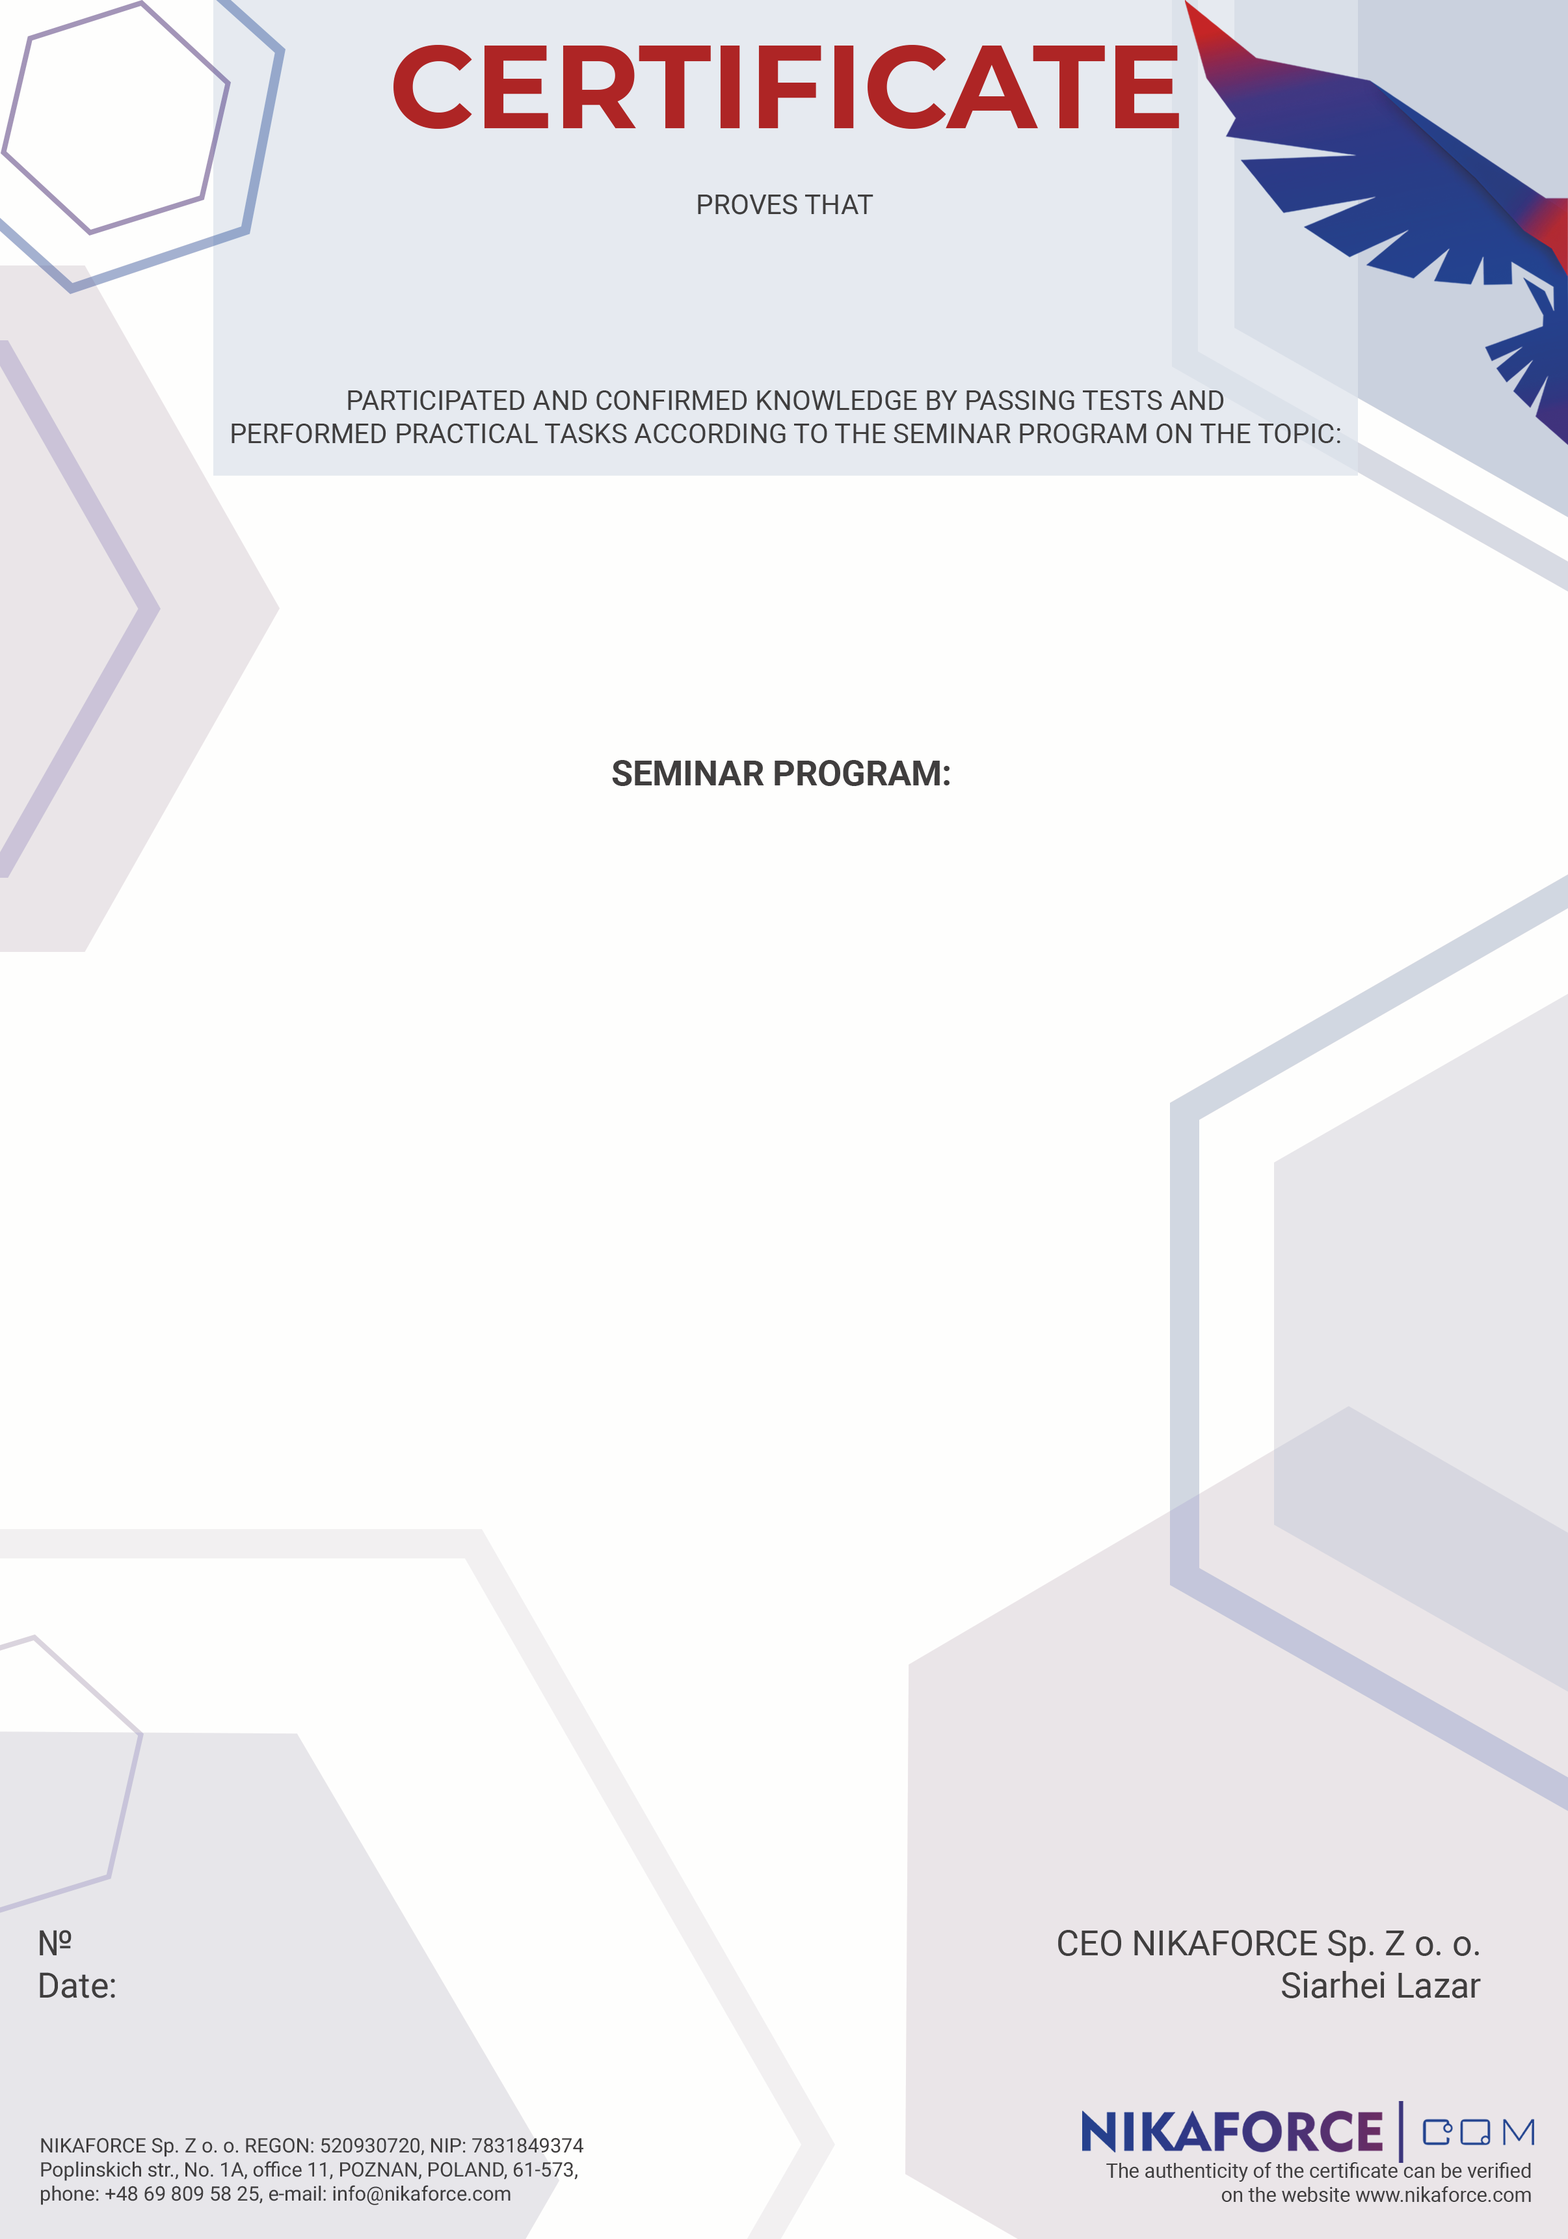
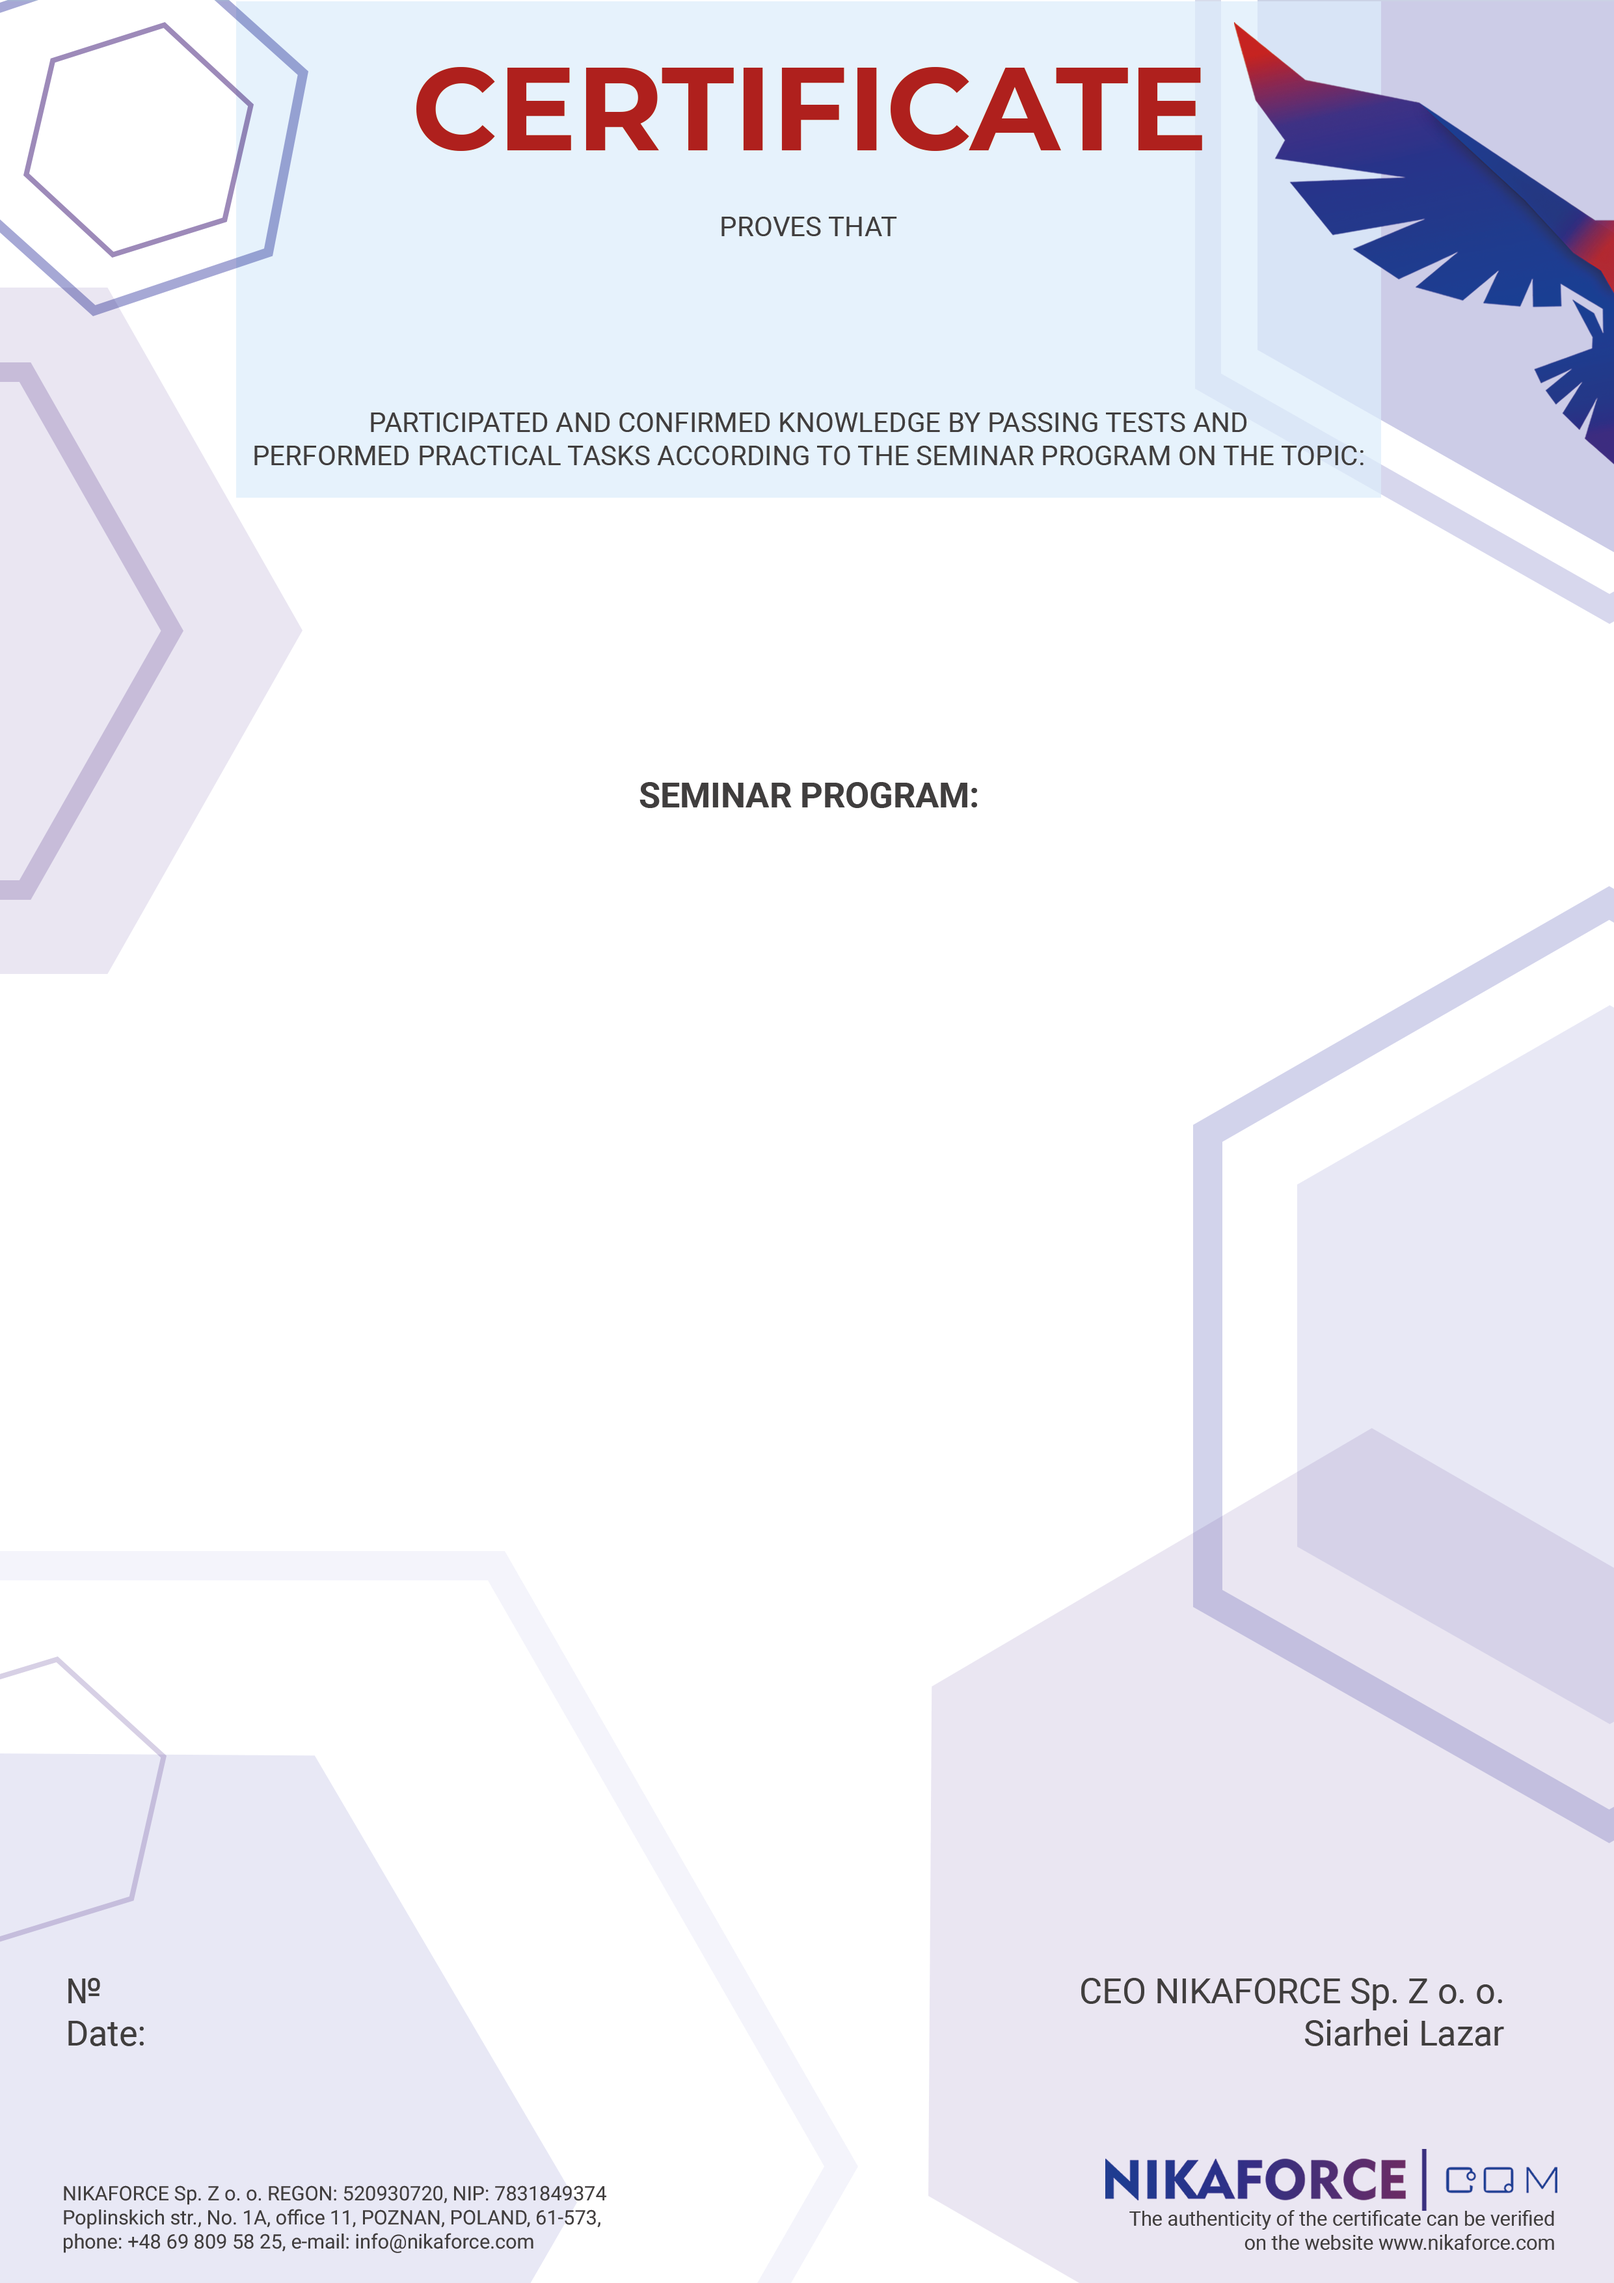
fix: equalize paragraph spacing in generator and unify admin UI columns

diff --git a/core/utils.py b/core/utils.py
@@ -21,7 +21,7 @@ def pdf_to_jpg(pdf_file_field):
         pdf_data = pdf_file_field.read()
         doc = fitz.open(stream=pdf_data, filetype="pdf")
         page = doc.load_page(0)
-        pix = page.get_pixmap(matrix=fitz.Matrix(2, 2))
+        pix = page.get_pixmap(matrix=fitz.Matrix(1.5, 1.5))
         img_data = pix.tobytes("jpg")
         return ContentFile(img_data, name=f"preview_manual_{uuid.uuid4().hex[:8]}.jpg")
     except Exception as e:
@@ -31,23 +31,21 @@ def pdf_to_jpg(pdf_file_field):
 
 def wrap_text(text, font, max_width, draw):
     lines = []
-    paragraphs = str(text).replace('\r\n', '\n').split('\n')
-    for paragraph in paragraphs:
-        words = paragraph.split(' ')
-        current_line = []
-        for word in words:
-            test_line = ' '.join(current_line + [word])
-            bbox = draw.textbbox((0, 0), test_line, font=font)
-            if (bbox[2] - bbox[0]) <= max_width:
-                current_line.append(word)
+    words = text.split(' ')
+    current_line = []
+    for word in words:
+        test_line = ' '.join(current_line + [word])
+        bbox = draw.textbbox((0, 0), test_line, font=font)
+        if (bbox[2] - bbox[0]) <= max_width:
+            current_line.append(word)
+        else:
+            if current_line:
+                lines.append(' '.join(current_line))
+                current_line = [word]
             else:
-                if current_line:
-                    lines.append(' '.join(current_line))
-                    current_line = [word]
-                else:
-                    lines.append(word)
-        if current_line:
-            lines.append(' '.join(current_line))
+                lines.append(word)
+    if current_line:
+        lines.append(' '.join(current_line))
     return lines
 
 
@@ -56,6 +54,7 @@ def generate_certificates(certificate):
     company = certificate.seminar.company
 
     font_times = os.path.join(ASSETS_DIR, 'fonts', 'times.ttf')
+    font_times_bold = os.path.join(ASSETS_DIR, 'fonts', 'timesbd.ttf')
     font_montserrat = os.path.join(ASSETS_DIR, 'fonts', 'Montserrat-Bold.ttf')
     font_roboto = os.path.join(ASSETS_DIR, 'fonts', 'Roboto.ttf')
 
@@ -65,6 +64,7 @@ def generate_certificates(certificate):
 
         style = {
             'font_main': font_times,
+            'font_title': font_times_bold,
             'font_sec': font_times,
             'color_title': (180, 0, 0),
             'color_text': (0, 0, 0),
@@ -72,14 +72,14 @@ def generate_certificates(certificate):
             'name': {
                 'type': 'autofit',
                 'align': 'center',
-                'y_start': 455, 'y_end': 665,
-                'max_width': 2200, 'max_size': 110, 'min_size': 50
+                'y_start': 465, 'y_end': 655,
+                'max_width': 1600, 'max_size': 110, 'min_size': 50
             },
             'title': {
                 'type': 'autofit',
                 'align': 'center',
                 'y_start': 820, 'y_end': 1185,
-                'max_width': 2200, 'max_size': 120, 'min_size': 40
+                'max_width': 2200, 'max_size': 90, 'min_size': 40
             },
             'program': {
                 'type': 'autofit',
@@ -87,8 +87,8 @@ def generate_certificates(certificate):
                 'y_start': 1370, 'y_end': 2685,
                 'max_width': 2200, 'max_size': 60, 'min_size': 25
             },
-            'number': {'type': 'simple', 'y': 2980, 'x': 120, 'size': 50},
-            'date': {'type': 'simple', 'y': 3100, 'x': 60, 'size': 50},
+            'number': {'type': 'simple', 'y': 2975, 'x': 120, 'size': 50},
+            'date': {'type': 'simple', 'y': 3095, 'x': 60, 'size': 50},
         }
     else:
         tpl_clean = 'template_nika_clean.png'
@@ -96,13 +96,14 @@ def generate_certificates(certificate):
 
         style = {
             'font_main': font_montserrat,
+            'font_title': font_montserrat,
             'font_sec': font_roboto,
             'color_title': (0, 64, 153),
             'color_text': (50, 50, 50),
 
             'name': {
                 'type': 'autofit_one_line',
-                'y_center': 460,
+                'y_center': 480,
                 'max_width': 1700,
                 'max_size': 130,
                 'min_size': 40
@@ -110,7 +111,7 @@ def generate_certificates(certificate):
             'title': {
                 'type': 'autofit',
                 'align': 'center',
-                'y_start': 750, 'y_end': 1135,
+                'y_start': 770, 'y_end': 1155,
                 'max_width': 2300, 'max_size': 90, 'min_size': 40
             },
             'program': {
@@ -119,8 +120,8 @@ def generate_certificates(certificate):
                 'y_start': 1300, 'y_end': 2840,
                 'max_width': 2300, 'max_size': 60, 'min_size': 25
             },
-            'number': {'type': 'simple', 'y': 2955, 'x': 120, 'size': 50},
-            'date': {'type': 'simple', 'y': 3025, 'x': 200, 'size': 50},
+            'number': {'type': 'simple', 'y': 3030, 'x': 160, 'size': 50},
+            'date': {'type': 'simple', 'y': 3097, 'x': 230, 'size': 50},
         }
 
     def process_image(template_name):
@@ -135,64 +136,80 @@ def generate_certificates(certificate):
             if not text: return
             cfg = style[key]
 
+            # 1. ONE LINE
             if cfg['type'] == 'autofit_one_line':
                 current_size = cfg['max_size']
                 min_size = cfg['min_size']
                 max_w = cfg['max_width']
                 final_font = None
-
                 while current_size >= min_size:
                     font = get_font(font_path, current_size)
                     bbox = draw.textbbox((0, 0), text, font=font)
-                    w = bbox[2] - bbox[0]
-                    if w <= max_w:
+                    if (bbox[2] - bbox[0]) <= max_w:
                         final_font = font
                         break
                     current_size -= 2
-
-                if not final_font:
-                    final_font = get_font(font_path, min_size)
+                if not final_font: final_font = get_font(font_path, min_size)
 
                 bbox = draw.textbbox((0, 0), text, font=final_font)
                 text_w = bbox[2] - bbox[0]
                 text_h = bbox[3] - bbox[1]
-
                 x = (img_w - text_w) / 2
                 y = cfg['y_center'] - (text_h / 2)
-
                 draw.text((x, y), text, font=final_font, fill=color)
 
             elif cfg['type'] == 'autofit':
                 current_size = cfg['max_size']
                 min_size = cfg['min_size']
                 max_h = cfg['y_end'] - cfg['y_start']
+
+                raw_paragraphs = str(text).replace('\r\n', '\n').split('\n')
+
+                line_spacing = 13
+                paragraph_spacing = 13
+
                 final_font = None
-                final_lines = []
+                final_structure = []
                 final_h = 0
 
                 while current_size >= min_size:
                     font = get_font(font_path, current_size)
-                    lines = wrap_text(text, font, cfg['max_width'], draw)
+                    temp_structure = []
                     total_h = 0
-                    for line in lines:
-                        bbox = draw.textbbox((0, 0), line, font=font)
-                        total_h += (bbox[3] - bbox[1]) + 15
-                    total_h -= 15
+
+                    for para in raw_paragraphs:
+                        if not para.strip(): continue
+                        lines = wrap_text(para, font, cfg['max_width'], draw)
+                        temp_structure.append(lines)
+
+                        for line in lines:
+                            bbox = draw.textbbox((0, 0), line, font=font)
+                            total_h += (bbox[3] - bbox[1]) + line_spacing
+
+                        total_h += paragraph_spacing
+
+                    if total_h > 0: total_h -= paragraph_spacing
 
                     if total_h <= max_h:
                         final_font = font
-                        final_lines = lines
+                        final_structure = temp_structure
                         final_h = total_h
                         break
                     current_size -= 2
 
                 if not final_font:
                     final_font = get_font(font_path, min_size)
-                    final_lines = wrap_text(text, final_font, cfg['max_width'], draw)
+                    final_structure = []
                     final_h = 0
-                    for line in final_lines:
-                        bbox = draw.textbbox((0, 0), line, final_font)
-                        final_h += (bbox[3] - bbox[1]) + 15
+                    for para in raw_paragraphs:
+                        if not para.strip(): continue
+                        lines = wrap_text(para, final_font, cfg['max_width'], draw)
+                        final_structure.append(lines)
+                        for line in lines:
+                            bbox = draw.textbbox((0, 0), line, final_font)
+                            final_h += (bbox[3] - bbox[1]) + line_spacing
+                        final_h += paragraph_spacing
+                    if final_h > 0: final_h -= paragraph_spacing
 
                 if key == 'program':
                     start_y = cfg['y_start']
@@ -200,38 +217,41 @@ def generate_certificates(certificate):
                     start_y = cfg['y_start'] + (max_h - final_h) / 2
 
                 max_line_w = 0
-                for line in final_lines:
-                    bbox = draw.textbbox((0, 0), line, font=final_font)
-                    w = bbox[2] - bbox[0]
-                    if w > max_line_w: max_line_w = w
+                for group in final_structure:
+                    for line in group:
+                        bbox = draw.textbbox((0, 0), line, font=final_font)
+                        w = bbox[2] - bbox[0]
+                        if w > max_line_w: max_line_w = w
 
                 block_start_x = (img_w - max_line_w) / 2
 
                 curr_y = start_y
-                for line in final_lines:
-                    bbox = draw.textbbox((0, 0), line, font=final_font)
-                    line_w = bbox[2] - bbox[0]
+                for group in final_structure:
+                    for line in group:
+                        bbox = draw.textbbox((0, 0), line, font=final_font)
+                        line_w = bbox[2] - bbox[0]
 
-                    if cfg['align'] == 'center':
-                        draw_x = (img_w - line_w) / 2
-                    else:
-                        draw_x = block_start_x
+                        if cfg['align'] == 'center':
+                            draw_x = (img_w - line_w) / 2
+                        else:
+                            draw_x = block_start_x
 
-                    draw.text((draw_x, curr_y), line, font=final_font, fill=color)
-                    curr_y += (bbox[3] - bbox[1]) + 15
+                        draw.text((draw_x, curr_y), line, font=final_font, fill=color)
+                        curr_y += (bbox[3] - bbox[1]) + line_spacing
+
+                    curr_y += paragraph_spacing
 
             elif cfg['type'] == 'simple':
                 font = get_font(font_path, cfg['size'])
                 draw.text((cfg['x'], cfg['y']), str(text), font=font, fill=color)
 
         draw_field(certificate.full_name, 'name', style['font_main'], style['color_text'])
-        draw_field(certificate.seminar.title, 'title', style['font_main'], style['color_title'])
+        draw_field(certificate.seminar.title, 'title', style['font_title'], style['color_title'])
         draw_field(certificate.seminar.program, 'program', style['font_sec'], style['color_text'])
-
         clean_num = certificate.certificate_number.replace('№', '').strip()
         draw_field(clean_num, 'number', style['font_sec'], style['color_text'])
-
         s_date = certificate.seminar.date_start.strftime('%d.%m.%Y')
+
         if certificate.seminar.date_end:
             s_date += f" - {certificate.seminar.date_end.strftime('%d.%m.%Y')}"
         draw_field(s_date, 'date', style['font_sec'], style['color_text'])
@@ -239,7 +259,6 @@ def generate_certificates(certificate):
         return image
 
     try:
-
         unique_suffix = uuid.uuid4().hex[:8]
 
         img_clean = process_image(tpl_clean)
